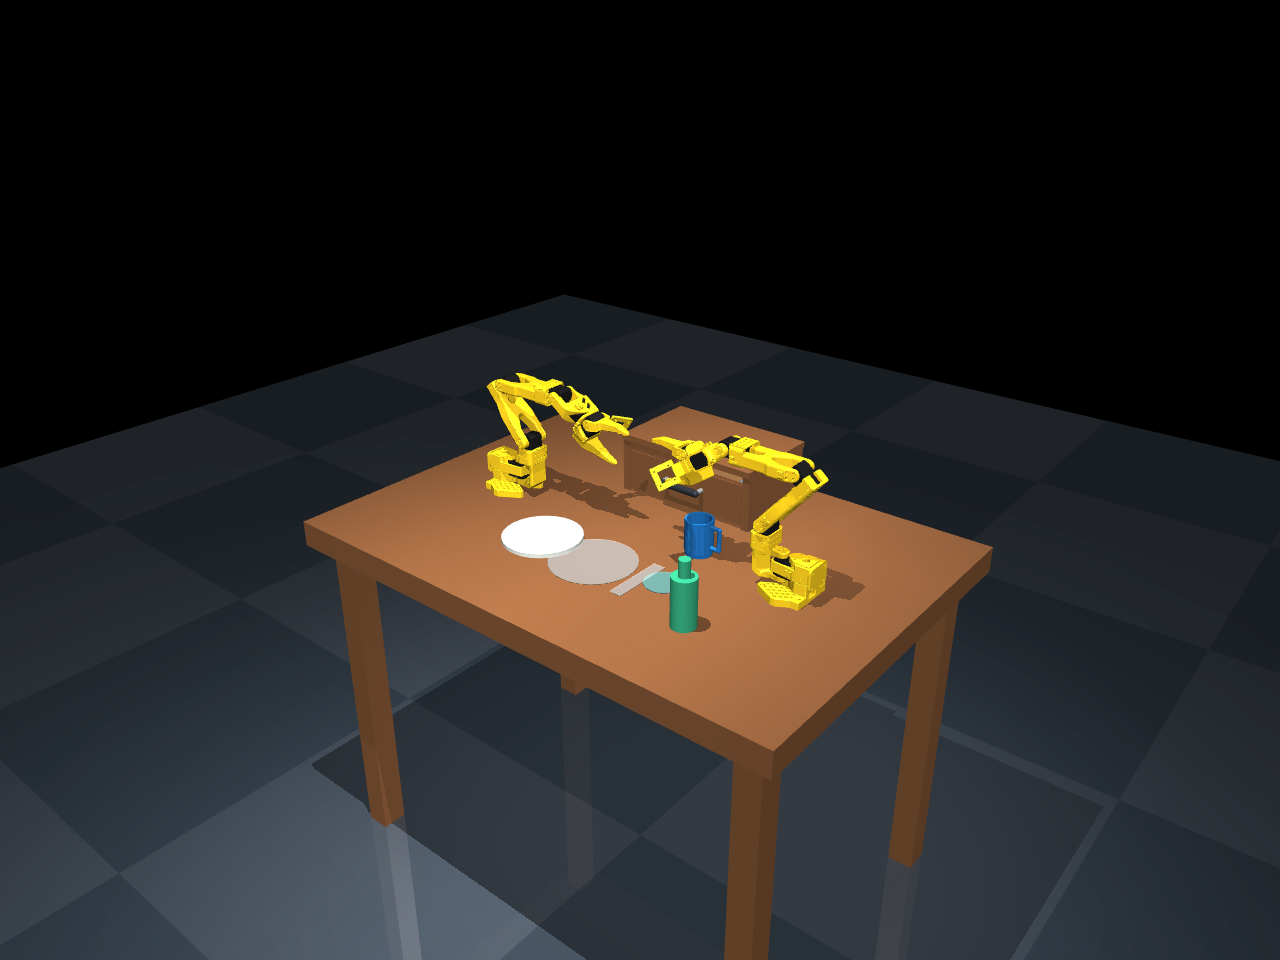
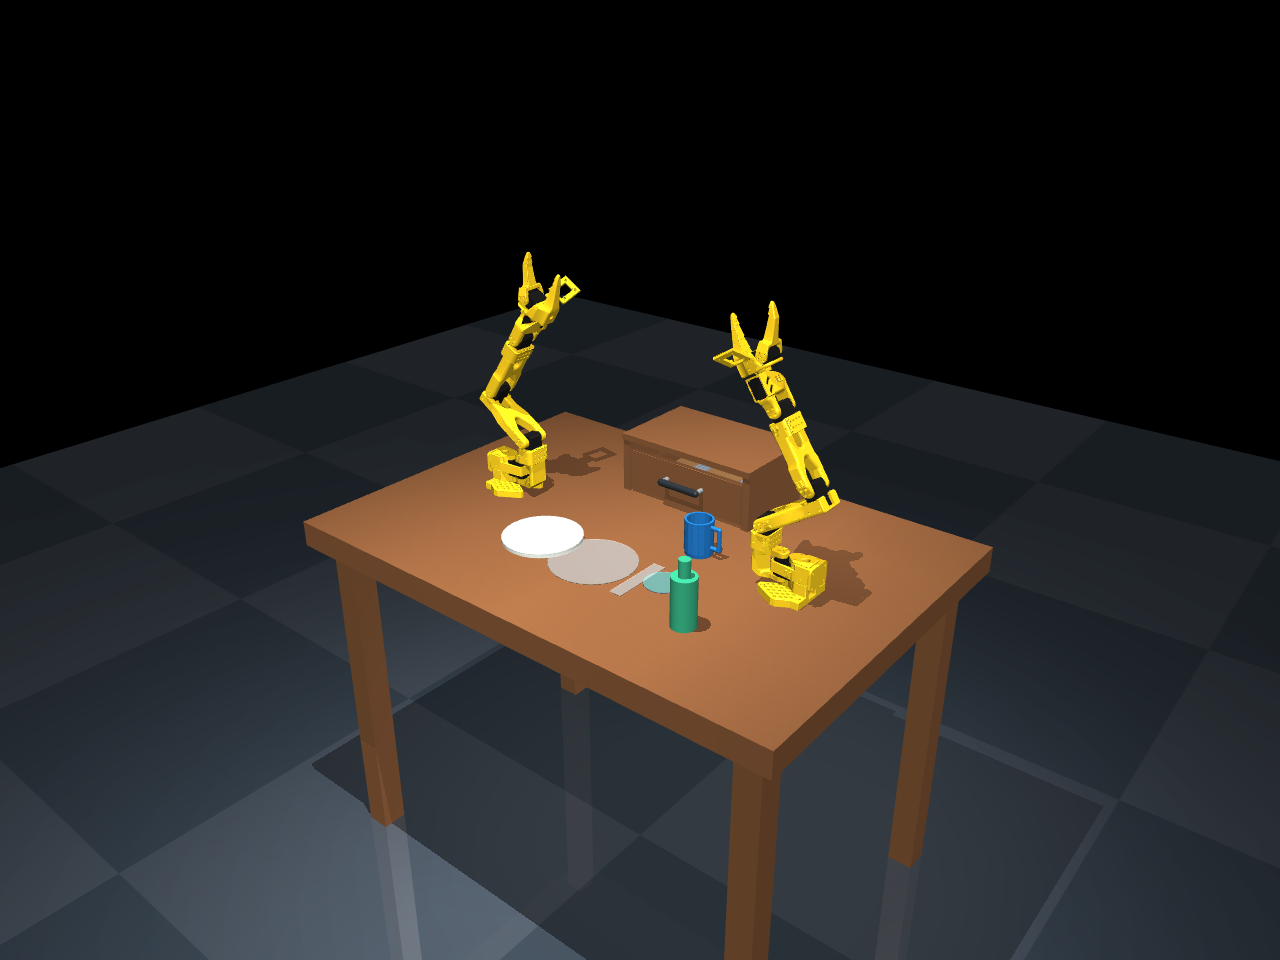
Keep opposing arms separated at startup and after viewer reset

Changed region(s): [[0.375, 0.25, 0.6875, 0.625], [0.5625, 0.5625, 0.5938, 0.5938], [0.5312, 0.5312, 0.5625, 0.5625]]

diff --git a/scripts/scene.py b/scripts/scene.py
@@ -9,27 +9,42 @@ import numpy as np
 
 ROOT = Path(__file__).resolve().parents[1]
 JOINTS = ("shoulder_pan", "shoulder_lift", "elbow_flex", "wrist_flex", "wrist_roll", "gripper")
+HOME_POSE = (0, -1.0, 0, 0, 0, 0.7)
 
 
 def load(seed=0):
     model = mujoco.MjModel.from_xml_path(str(ROOT / "scenes/scene.xml"))
     data = mujoco.MjData(model)
-    # Neutral, open-gripper home; controls and joint positions must agree at reset.
-    for arm in ("left", "right"):
-        for joint, value in zip(JOINTS, (0, -0.7, 0.7, 0.6, 0, 0.7)):
-            data.joint(f"{arm}/{joint}").qpos[0] = value
-            data.ctrl[model.actuator(f"{arm}/{joint}").id] = value
+    reset(model, data, seed)
+    return model, data
+
+
+def reset(model, data, seed=0):
+    """Restore both joint positions and servo targets, never the crossing zero pose."""
+    mujoco.mj_resetDataKeyframe(model, data, model.key("home").id)
     rng = np.random.default_rng(seed)
     # Small, non-overlapping reset variation; not the full challenge randomization.
     for name in ("plate", "cup", "bottle", "fork", "spoon"):
         data.joint(f"{name}_free").qpos[:2] += rng.uniform(-0.008, 0.008, 2)
     mujoco.mj_forward(model, data)
-    return model, data
 
 
-def settle(model, data, steps):
+def check_arm_clearance(model, data):
+    left = data.site("left/gripperframe").xpos
+    right = data.site("right/gripperframe").xpos
+    assert right[0] - left[0] > 0.30, ("Home grippers too close", left, right)
+    for contact in data.contact:
+        a = model.body(int(model.geom_bodyid[contact.geom1])).name
+        b = model.body(int(model.geom_bodyid[contact.geom2])).name
+        assert not ((a.startswith("left/") and b.startswith("right/")) or
+                    (a.startswith("right/") and b.startswith("left/"))), (a, b)
+
+
+def settle(model, data, steps, verify_arms=False):
     for _ in range(steps):
         mujoco.mj_step(model, data)
+        if verify_arms:
+            check_arm_clearance(model, data)
         if not np.isfinite(data.qpos).all() or not np.isfinite(data.qvel).all():
             raise RuntimeError("Non-finite simulation state")
     if any(w.number for w in data.warning):
@@ -58,7 +73,8 @@ def main():
     if args.check:
         for seed in range(10):
             model, data = load(seed)
-            settle(model, data, 2500)
+            check_arm_clearance(model, data)
+            settle(model, data, 2500, verify_arms=True)
             check(model, data)
             print(json.dumps({"seed": seed, "seconds": round(data.time, 3), "actuators": model.nu, "status": "passed"}))
         # Test the passive drawer mechanism directly, independent of a robot policy.
@@ -71,6 +87,12 @@ def main():
         assert data.joint("drawer_slide").qpos[0] < 0.02, "Drawer cannot close"
         data.qfrc_applied[dof] = 0
         print(json.dumps({"drawer_open_close": "passed", "applied_force_N": 3}))
+        # Exercise the same recovery used after the viewer's built-in reset.
+        mujoco.mj_resetData(model, data)
+        reset(model, data)
+        check_arm_clearance(model, data)
+        settle(model, data, 5000, verify_arms=True)
+        print(json.dumps({"home_reset_and_10s_hold": "passed"}))
         return
     model, data = load(args.seed)
     settle(model, data, 500)
@@ -92,7 +114,13 @@ def main():
         while viewer.is_running():
             start = time.monotonic()
             mujoco.mj_step(model, data)
+            simulation_time = data.time
             viewer.sync()
+            # Backspace / Reset in the native viewer restores qpos0 and zero
+            # servo targets. Replace that state before the next physics step.
+            if data.time < simulation_time:
+                with viewer.lock():
+                    reset(model, data, args.seed)
             time.sleep(max(0, model.opt.timestep - (time.monotonic() - start)))
 
 

diff --git a/scripts/build_scene.py b/scripts/build_scene.py
@@ -2,6 +2,8 @@
 from pathlib import Path
 import math
 import xml.etree.ElementTree as ET
+import mujoco
+from scene import HOME_POSE, JOINTS
 
 ROOT = Path(__file__).resolve().parents[1]
 
@@ -27,6 +29,20 @@ def build():
             "fromto": f"{start} {end}", "size": "0.004", "mass": "0.004",
             "rgba": "0.12 0.43 0.72 1"})
     target = ROOT / "scenes/scene.xml"
+    ET.indent(tree, space="  ")
+    tree.write(target, encoding="unicode")
+    # Resolve attachment ordering by joint/actuator name, not hard-coded indices.
+    model = mujoco.MjModel.from_xml_path(str(target))
+    data = mujoco.MjData(model)
+    for arm in ("left", "right"):
+        for joint, value in zip(JOINTS, HOME_POSE):
+            data.joint(f"{arm}/{joint}").qpos[0] = value
+            data.ctrl[model.actuator(f"{arm}/{joint}").id] = value
+    keyframes = ET.SubElement(tree.getroot(), "keyframe")
+    ET.SubElement(keyframes, "key", {
+        "name": "home", "qpos": " ".join(format(v, ".9g") for v in data.qpos),
+        "ctrl": " ".join(format(v, ".9g") for v in data.ctrl),
+    })
     ET.indent(tree, space="  ")
     tree.write(target, encoding="unicode")
     return target

diff --git a/README.md b/README.md
@@ -59,7 +59,11 @@ initial manipulation assets, not high-fidelity kitchenware or fluid simulation.
 
 `scenes/scene.xml` is the ready-to-load scene, using native MJCF model attachment
 to instantiate the upstream robot twice. It can also be opened in MuJoCo tools.
-The launcher initializes the arms to an open-gripper home pose. For programmatic use:
+The launcher loads the `home` keyframe: raised, open grippers separated by about
+41 cm. Native viewer resets also restore this pose and its matching servo targets.
+When opening the XML directly in other MuJoCo tools, load the `home` keyframe
+before running physics; the all-zero joint pose makes the opposing arms overlap.
+For programmatic use:
 
 ```python
 from scripts.scene import load
@@ -80,6 +84,8 @@ uv run python scripts/build_scene.py
 
 `--check` simulates ten deterministic seeds for five simulated seconds each and
 checks actuator/state dimensions, camera availability, finite state, MuJoCo warnings,
+arm clearance and absence of inter-arm contacts at every timestep, including a
+reset followed by a ten-second hold,
 object retention on the table/in the drawer, and drawer travel bounds. Seeds vary
 object x/y positions by up to 8 mm. A separate check applies 3 N directly to the
 drawer joint to verify opening and closing; it does not claim robot manipulation.
